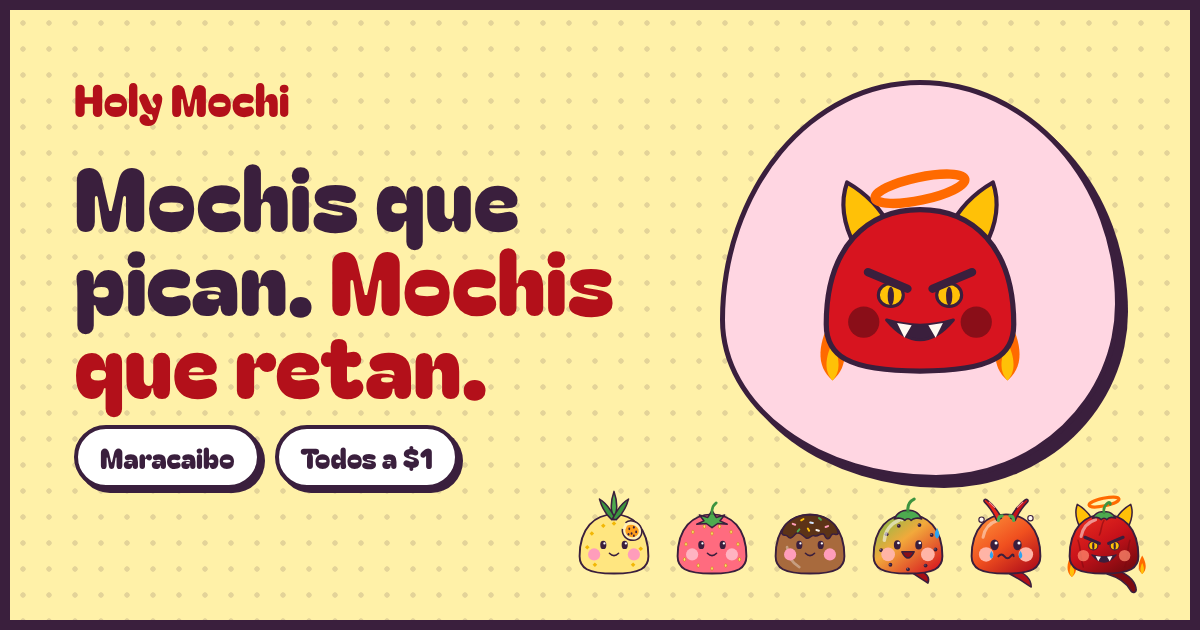
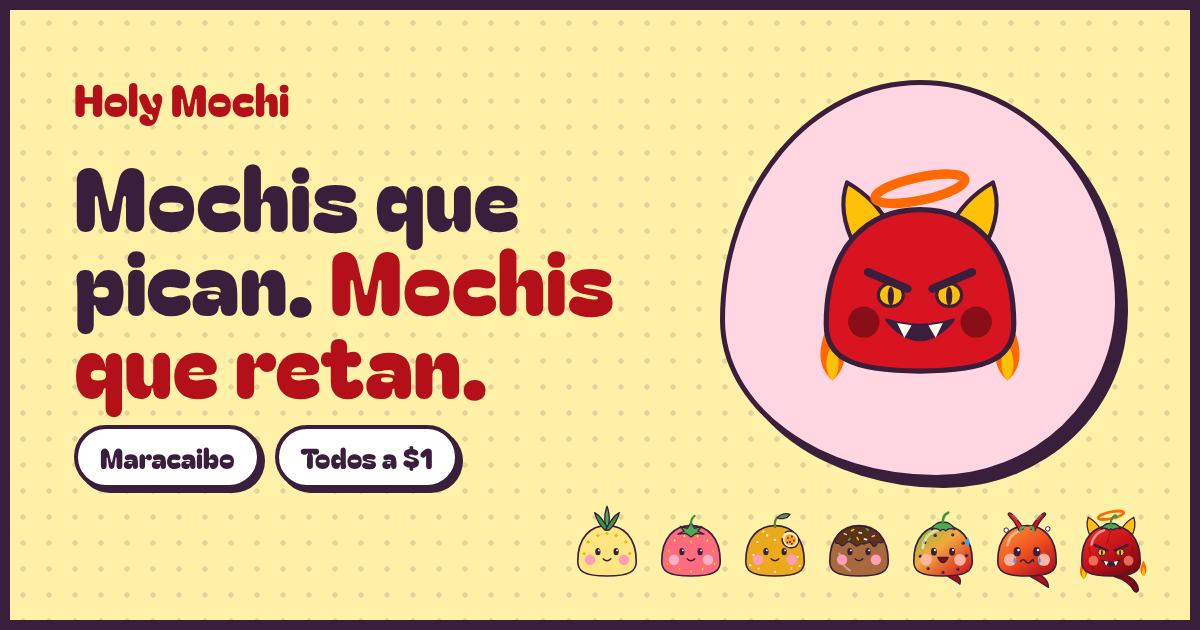
Sweet flavors are Piña, Fresa, Parchita and Chocolate
Split Piña parchita back into separate Piña and Parchita mochis, center
flavor card rows (4 sweet, 3 spicy) and let the memory game pick 6 of the
7 flavors each round.

Claude-Session: https://claude.ai/code/session_01JeYCTPML9ifJtydKZqzuEV

Changed region(s): [[0.4625, 0.7841, 0.9558, 0.9349]]

diff --git a/src/data/mochis.ts b/src/data/mochis.ts
@@ -2,7 +2,7 @@
  * Un mochi por sabor: cuerpo del color de su fruta y la fruta encima.
  * El mismo SVG se usa en el sprite (con animación CSS) y en el canvas del juego.
  */
-export type SaborId = 'pinaparchita' | 'fresa' | 'chocolate' | 'ajipimienta' | 'cayenapiripiri' | 'cuatrofuegos';
+export type SaborId = 'pina' | 'fresa' | 'parchita' | 'chocolate' | 'ajipimienta' | 'cayenapiripiri' | 'cuatrofuegos';
 
 const T = '#3A1F3D'; // tinta
 const HOJA = '#4DAA4F';
@@ -88,10 +88,13 @@ const demonio =
   cayenaDefs + llama(36, 246, 1.4) + llama(220, 238, 1.1) + cayenaCola + cayenaCuernos +
   cuerpo('url(#hm-cayena)') + cayenaPiel + cayenaCara + cayenaCaliz;
 
-/* Piña parchita: piña con corona y un mordisco que enseña la pulpa de parchita */
-const pinaRombos = [[62, 132], [92, 112], [50, 168], [190, 172], [120, 106], [70, 214], [170, 214]]
-  .map(([x, y]) => `<path d="M${x - 6} ${y}l6-6 6 6-6 6z" fill="#F2B705"/>`).join('');
-const pinaCorona = pina.split('<path d="M').slice(0, 4).join('<path d="M');
+/* Parchita: piel dorada con pintitas, un mordisco con la pulpa, tallo y hoja */
+const parchitaPintas = [[66, 132], [96, 112], [120, 126], [54, 172], [190, 178], [70, 214], [170, 214], [120, 224], [44, 204], [196, 206], [84, 100]]
+  .map(([x, y]) => `<circle cx="${x}" cy="${y}" r="3.4" fill="#FFF6C8"/>`).join('');
+const parchitaTallo =
+  `<path d="M120 86C118 72 121 62 128 56" fill="none" stroke="#6B7F2A" stroke-width="7" stroke-linecap="round"/>` +
+  `<path d="M127 58C138 44 157 42 166 48C157 61 140 63 127 58Z" fill="${HOJA}" stroke="${T}" stroke-width="4" stroke-linejoin="round"/>` +
+  `<path d="M131 57C142 53 152 51 160 50" fill="none" stroke="#3D9440" stroke-width="2.5" stroke-linecap="round"/>`;
 
 /* Chocolate: cuerpo de cacao con baño que chorrea y chispitas de colores */
 const chispitas: [number, number, string, number][] = [
@@ -135,8 +138,9 @@ const caraLlorando =
 const piriBrillo = `<path d="M60 142C64 120 78 104 98 98" fill="none" stroke="#fff" stroke-width="8" stroke-linecap="round" opacity=".45"/>`;
 
 export const mochiSvg: Record<SaborId, string> = {
-  pinaparchita: cuerpo('#FFE680') + pinaRombos + parchitaPulpa + caraFeliz('#FF9DBB') + pinaCorona,
+  pina: cuerpo('#FFE680') + caraFeliz('#FF9DBB') + pina,
   fresa: cuerpo('#FF6B7F') + fresaSemillas + caraFeliz('#FFB3C1') + fresaCaliz,
+  parchita: cuerpo('#EBA91C') + parchitaPintas + parchitaPulpa + caraFeliz('#FF9DBB') + parchitaTallo,
   chocolate: cuerpo('#A86A3D') + chocolateBano + caraFeliz('#FF9DBB'),
   ajipimienta: ajiDefs + tabascoPunta + cuerpo('url(#hm-aji)') + pimientaGranos + tabascoBrillo + caraTabasco + tabascoCaliz,
   cayenapiripiri: piriDefs + piriCola + cuerpo('url(#hm-piri)') + piriBrillo + caraLlorando + piriChiles,
@@ -145,8 +149,9 @@ export const mochiSvg: Record<SaborId, string> = {
 
 /** Clase de animación según el carácter del sabor */
 export const animacionSabor: Record<SaborId, string> = {
-  pinaparchita: 'anim-respira',
+  pina: 'anim-respira',
   fresa: 'anim-respira',
+  parchita: 'anim-respira',
   chocolate: 'anim-respira',
   ajipimienta: 'anim-tiembla',
   cayenapiripiri: 'anim-tiembla-rapido',

diff --git a/src/data/menu.ts b/src/data/menu.ts
@@ -17,8 +17,9 @@ export interface Sabor {
 }
 
 export const dulces: Sabor[] = [
-  { id: 'pinaparchita', nombre: 'Piña parchita', descripcion: 'Piña dulce con el toque ácido de la parchita.', llamas: 0, fondo: 'bg-pina', hex: '#FFF1A8', precio: '$1' },
+  { id: 'pina', nombre: 'Piña', descripcion: 'Piña tropical, fresca y jugosa.', llamas: 0, fondo: 'bg-pina', hex: '#FFF1A8', precio: '$1' },
   { id: 'fresa', nombre: 'Fresa', descripcion: 'Fresa dulce, el clásico de siempre.', llamas: 0, fondo: 'bg-fresa', hex: '#FFD6E2', precio: '$1' },
+  { id: 'parchita', nombre: 'Parchita', descripcion: 'Ácida y perfumada, pura fruta de la pasión.', llamas: 0, fondo: 'bg-maracuya', hex: '#FCE3AE', precio: '$1' },
   { id: 'chocolate', nombre: 'Chocolate', descripcion: 'Chocolate cremoso para los que no negocian con el picante.', llamas: 0, fondo: 'bg-cacao', hex: '#EBD3BE', precio: '$1' },
 ];
 
@@ -40,7 +41,7 @@ export interface Reto {
 }
 
 export const retos: Reto[] = [
-  { nombre: 'Reto a ciegas', nivel: 1, descripcion: 'Compra una caja de 3 dulces sin mirar y adivina cada sabor al primer bocado.', talon: 'bg-pina', sabor: 'fresa' },
+  { nombre: 'Reto a ciegas', nivel: 1, descripcion: 'Compra una caja de 4 dulces sin mirar y adivina cada sabor al primer bocado.', talon: 'bg-pina', sabor: 'fresa' },
   { nombre: 'Reto del minuto', nivel: 2, descripcion: 'Compra un Ají y pimienta y aguanta 60 segundos sin agua.', talon: 'bg-parchita', sabor: 'ajipimienta' },
   { nombre: 'Reto doble', nivel: 3, descripcion: 'Compra dos Cayena y piri piri y cómetelos seguidos, sin pausa.', talon: 'bg-mango', sabor: 'cayenapiripiri' },
   { nombre: 'Reto de los cuatro fuegos', nivel: 4, descripcion: 'Compra el de ají, pimienta roja, cayena y tabasco y termínalo entero.', talon: 'bg-cayena', sabor: 'cuatrofuegos' },
@@ -54,7 +55,7 @@ export const nivelesMascota: { nivel: Nivel; nombre: string; gesto: string; fond
 ];
 
 export const preguntas: { pregunta: string; respuesta: string }[] = [
-  { pregunta: '¿Qué tan picante es de verdad?', respuesta: 'Piña parchita, fresa y chocolate no pican nada. Ají y pimienta es nivel 2, Cayena y piri piri nivel 3, y el de ají, pimienta roja, cayena y tabasco es el nivel 4, el máximo.' },
+  { pregunta: '¿Qué tan picante es de verdad?', respuesta: 'Piña, fresa, parchita y chocolate no pican nada. Ají y pimienta es nivel 2, Cayena y piri piri nivel 3, y el de ají, pimienta roja, cayena y tabasco es el nivel 4, el máximo.' },
   { pregunta: '¿Cuánto cuestan?', respuesta: 'Todos a $1, dulces y picantes.' },
   { pregunta: '¿Dónde los compro?', respuesta: '[DÓNDE Y CÓMO COMPRAR: dirección o punto de venta en Maracaibo, horario y si hay delivery]' },
   { pregunta: '¿Cuánto duran y cómo se guardan?', respuesta: '[CONSERVACIÓN Y CADUCIDAD]' },

diff --git a/src/scripts/ruleta.ts b/src/scripts/ruleta.ts
@@ -402,6 +402,7 @@ function juegoAtrapa(panel: HTMLElement, alResultado: AlResultado): Minijuego {
 }
 
 /* ───────────── Juego 2: Memoria picante ───────────── */
+const PAREJAS = 6;
 function juegoMemoria(panel: HTMLElement, alResultado: AlResultado): Minijuego {
   const tablero = $<HTMLElement>(panel, '[data-tablero]');
   const parejasEl = $<HTMLElement>(panel, '[data-parejas]');
@@ -423,7 +424,9 @@ function juegoMemoria(panel: HTMLElement, alResultado: AlResultado): Minijuego {
     intentosEl.textContent = '0';
     $<HTMLElement>(panel, '[data-resultado]').hidden = true;
 
-    const cartas = barajar([...todos, ...todos]).map((sabor, i) => {
+    // 6 parejas con 6 sabores al azar de la carta
+    const enJuego = barajar(todos).slice(0, PAREJAS);
+    const cartas = barajar([...enJuego, ...enJuego]).map((sabor, i) => {
       const b = document.createElement('button');
       b.type = 'button';
       b.className = 'carta';
@@ -459,7 +462,7 @@ function juegoMemoria(panel: HTMLElement, alResultado: AlResultado): Minijuego {
       });
       aviso.textContent = `¡Pareja de ${sabor.nombre}!`;
       abiertas = [];
-      if (parejas === todos.length && estrella) {
+      if (parejas === PAREJAS && estrella) {
         const s = estrella;
         temporizador = window.setTimeout(() => alResultado('memoria', s, `Tu sabor estrella: ${s.nombre}`, `Completaste el tablero en ${intentos} intentos. ${s.nombre} fue tu primera pareja, así que es tu mochi.`), 500);
       }

diff --git a/src/data/site.ts b/src/data/site.ts
@@ -8,7 +8,7 @@ export const site = {
   dondeComprar: '[DÓNDE COMPRAR: dirección o punto de venta y horario]',
   historia: [
     'Holy Mochi nació en una cocina pequeña de Maracaibo, con el aire acondicionado roto y una obsesión por el mochi japonés.',
-    'Empezamos con lo dulce: piña con parchita, fresa y chocolate. Un día un cliente pidió uno "que picara de verdad". Le pusimos ají con pimienta, lloró y pidió otro. Así llegaron la cayena con piri piri y, para los que no aprenden, el de ají, pimienta roja, cayena y tabasco.',
+    'Empezamos con lo dulce: piña, fresa, parchita y chocolate. Un día un cliente pidió uno "que picara de verdad". Le pusimos ají con pimienta, lloró y pidió otro. Así llegaron la cayena con piri piri y, para los que no aprenden, el de ají, pimienta roja, cayena y tabasco.',
     'Hoy cada mochi lleva su medidor de llamas y cada compra puede ser un reto.',
   ],
 } as const;

diff --git a/src/scripts/acompanante.ts b/src/scripts/acompanante.ts
@@ -19,7 +19,7 @@ const COMENTARIOS: Record<string, string[]> = {
     'Chocolate es para los que le tienen miedo a la vida. No juzgo. Bueno, sí.',
     'Todo a $1. Más barato que tu terapia después de los cuatro fuegos.',
     'La cayena no muerde. Quema, que es muy distinto.',
-    'Piña parchita: dulce por fuera, ácida por dentro. Como tu ex.',
+    'Parchita: ácida como tu ex. Pero esta sí vale la pena.',
     'Ají, pimienta roja, cayena y tabasco. Sí, los cuatro. No, no estamos bien.',
   ],
   retos: [

diff --git a/src/styles/global.css b/src/styles/global.css
@@ -18,6 +18,7 @@
   --color-tabasco: #FFB4A6;
   --color-cayena: #FF9D8C;
   --color-cacao: #EBD3BE;
+  --color-maracuya: #FCE3AE;
   --color-cielo: #D4E6FF;
 
   --font-display: "Bagel Fat One", "Arial Rounded MT Bold", system-ui, sans-serif;

diff --git a/DESIGN.md b/DESIGN.md
@@ -128,15 +128,17 @@ Canvas, tablero y cajas se dimensionan con `100svh` para caber en la pantalla:
 
 | Sabor | Nivel | Dibujo | Fondo de tarjeta |
 |---|---|---|---|
-| Piña parchita | 0 | piña con rombos y corona, con un mordisco que enseña la pulpa de parchita | `pina` |
+| Piña | 0 | piña con rombos y corona de hojas | `pina` |
 | Fresa | 0 | fresa roja con semillas y cáliz verde | `fresa` |
+| Parchita | 0 | piel dorada con pintitas, mordisco con pulpa y semillas, tallo y hoja | `maracuya` (#FCE3AE) |
 | Chocolate | 0 | cacao con baño que chorrea y chispitas de colores | `cacao` (#EBD3BE) |
 | Ají y pimienta | 2 | ají de verde a rojo con granos de pimienta, sudando | `parchita` |
 | Cayena y piri piri | 3 | cayena naranja con dos piri piri en V, llorando y echando humo | `mango` |
 | Ají, pimienta roja, cayena y tabasco | 4 | el mochi demonio hecho ají: cuernos, aureola caída, cola y llamas | `cayena` |
 
 Todas las tarjetas de sabor comparten estilo: mochi asomando arriba, nombre, descripción y
-pie con llamas y precio ($1). Rejilla de 3 columnas en escritorio, 2 en tablet, 1 en móvil.
+pie con llamas y precio ($1). Filas centradas: 4 dulces y 3 picantes por fila en escritorio,
+2 en tablet y 1 en móvil. La memoria usa 6 de los 7 sabores al azar en cada partida.
 
 ## Retos y tarjeta
 
